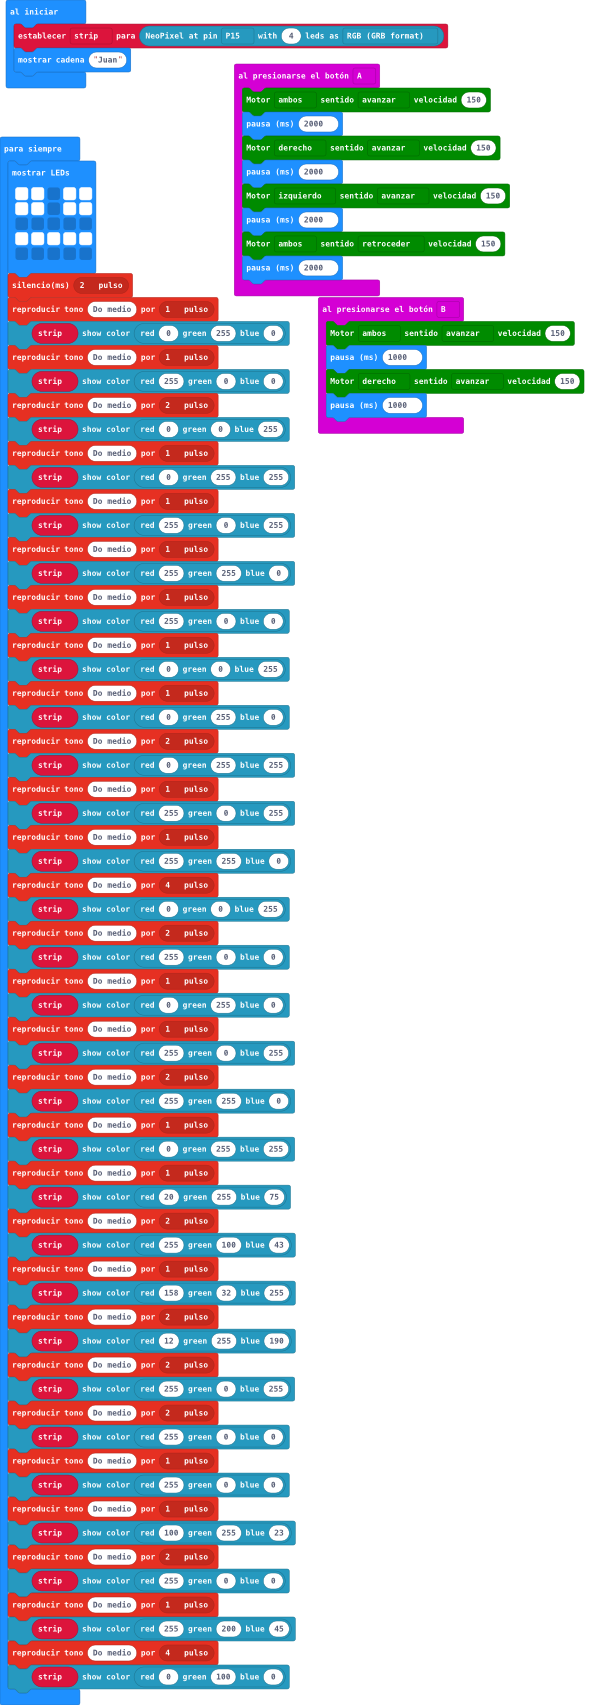
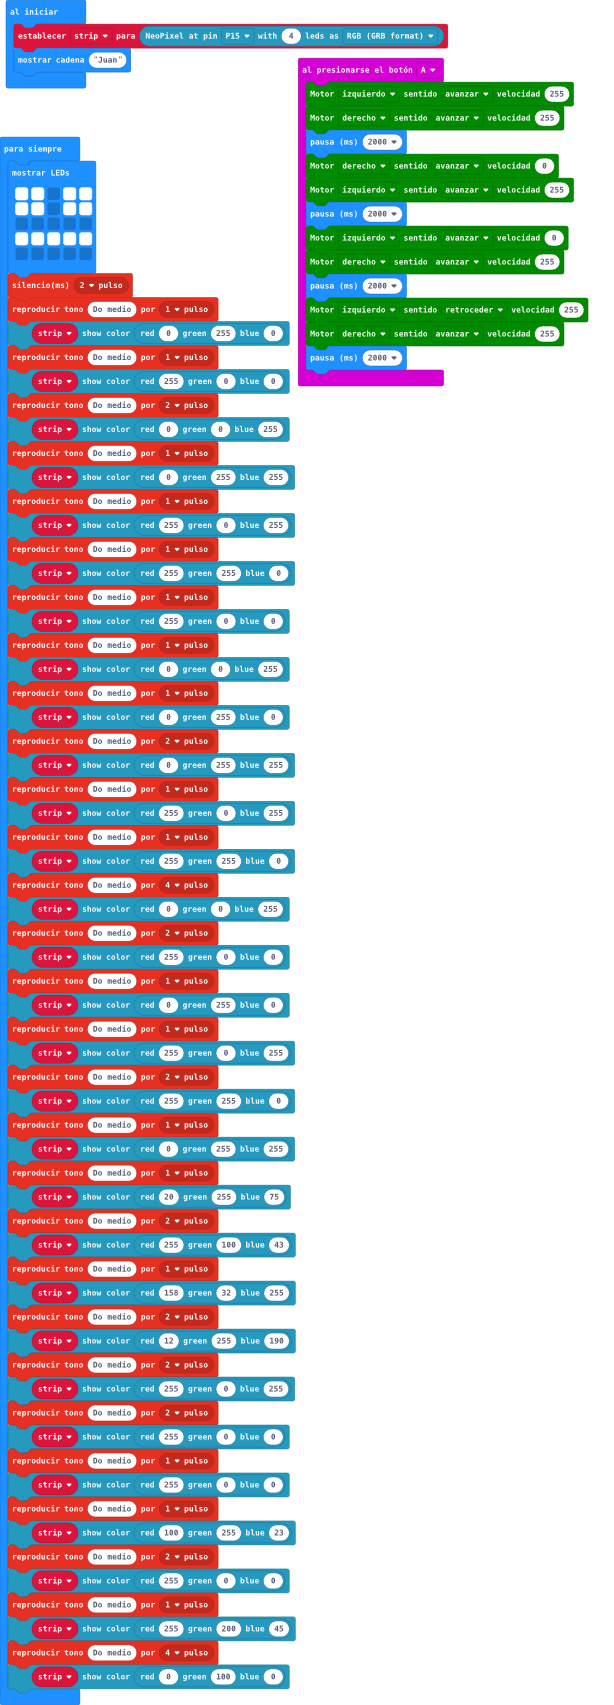
Actualizar main.blocks, main.ts

diff --git a/main.ts b/main.ts
@@ -1,18 +1,16 @@
 input.onButtonPressed(Button.A, function () {
-    maqueen.motorRun(maqueen.Motors.All, maqueen.Dir.CW, 150)
+    maqueen.motorRun(maqueen.Motors.M1, maqueen.Dir.CW, 255)
+    maqueen.motorRun(maqueen.Motors.M2, maqueen.Dir.CW, 255)
     basic.pause(2000)
-    maqueen.motorRun(maqueen.Motors.M2, maqueen.Dir.CW, 150)
+    maqueen.motorRun(maqueen.Motors.M2, maqueen.Dir.CW, 0)
+    maqueen.motorRun(maqueen.Motors.M1, maqueen.Dir.CW, 255)
     basic.pause(2000)
-    maqueen.motorRun(maqueen.Motors.M1, maqueen.Dir.CW, 150)
+    maqueen.motorRun(maqueen.Motors.M1, maqueen.Dir.CW, 0)
+    maqueen.motorRun(maqueen.Motors.M2, maqueen.Dir.CW, 255)
     basic.pause(2000)
-    maqueen.motorRun(maqueen.Motors.All, maqueen.Dir.CCW, 150)
+    maqueen.motorRun(maqueen.Motors.M1, maqueen.Dir.CCW, 255)
+    maqueen.motorRun(maqueen.Motors.M2, maqueen.Dir.CW, 255)
     basic.pause(2000)
-})
-input.onButtonPressed(Button.B, function () {
-    maqueen.motorRun(maqueen.Motors.All, maqueen.Dir.CW, 150)
-    basic.pause(1000)
-    maqueen.motorRun(maqueen.Motors.M2, maqueen.Dir.CW, 150)
-    basic.pause(1000)
 })
 let strip = neopixel.create(DigitalPin.P15, 4, NeoPixelMode.RGB)
 basic.showString("Juan")
